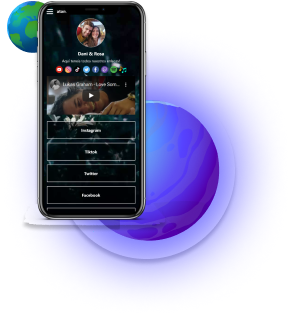
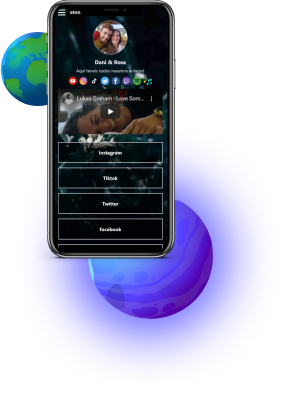
Share Youtube Section

diff --git a/src/components/ShareYoutubeSection.js b/src/components/ShareYoutubeSection.js
@@ -1,0 +1,22 @@
+import DesktopSectionBackground from '../assets/DesktopSectionBackground.png'
+import Image5 from '../assets/Image5.png'
+
+const ShareYoutubeSection = () => {
+	return (
+		<div className="share_youtube_section">
+			<div className="left">
+				<h2>Comparte videos de YouTube como una estrella del rock.</h2>
+				<p>Copia el enlace del video de YouTube que quieras compartir y se podrá reproducir directamente desde tu página.</p>
+			</div>
+			<div className="right">
+				<img src={Image5} alt="Image5" />
+			</div>
+
+			<div className="background_img">
+				<img src={DesktopSectionBackground} alt="DesktopSectionBackground" />
+			</div>
+		</div>
+	)
+}
+
+export default ShareYoutubeSection

diff --git a/src/App.js b/src/App.js
@@ -3,6 +3,7 @@ import CreateAccountSection from './components/CreateAccountSection'
 import SeeGallerySection from './components/SeeGallerySection'
 import IncreaseVisitsSection from './components/IncreaseVisitsSection'
 import PromoteProductsSection from './components/PromoteProductsSection'
+import ShareYoutubeSection from './components/ShareYoutubeSection'
 
 function App() {
 	return (
@@ -12,6 +13,7 @@ function App() {
 			<SeeGallerySection /> {/* Section 2 */}
 			<IncreaseVisitsSection /> {/* Section 3 */}
 			<PromoteProductsSection /> {/* Section 4 */}
+			<ShareYoutubeSection /> {/* Section 5 */}
 		</div>
 	)
 }

diff --git a/src/styles/components/_ShareYoutubeSection.scss b/src/styles/components/_ShareYoutubeSection.scss
@@ -1,0 +1,40 @@
+.share_youtube_section {
+	display: flex;
+	align-items: center;
+	justify-content: center;
+	padding: 50px 20px;
+	position: relative;
+	gap: 80px;
+
+	.left {
+		max-width: 480px;
+	}
+
+	.right {
+		display: flex;
+		align-items: center;
+		justify-content: center;
+		z-index: 9;
+
+		img {
+			width: 280px;
+			height: 280px;
+			object-fit: contain;
+		}
+	}
+}
+
+@include tablet-screen {
+	.share_youtube_section {
+		flex-direction: column;
+		padding: 30px 20px;
+		gap: 10px;
+
+		.left {
+			text-align: center;
+		}
+
+		.right {
+		}
+	}
+}

diff --git a/src/styles/components/_components.scss b/src/styles/components/_components.scss
@@ -3,3 +3,4 @@
 @import './SeeGallerySection';
 @import './IncreaseVisitsSection';
 @import './PromoteProductsSection';
+@import './ShareYoutubeSection';

diff --git a/src/styles/components/_PromoteProductsSection.scss b/src/styles/components/_PromoteProductsSection.scss
@@ -3,7 +3,7 @@
 	align-items: center;
 	justify-content: center;
 	gap: 100px;
-	padding: 20px 0;
+	padding: 50px 0;
 
 	.right {
 		max-width: 420px;
